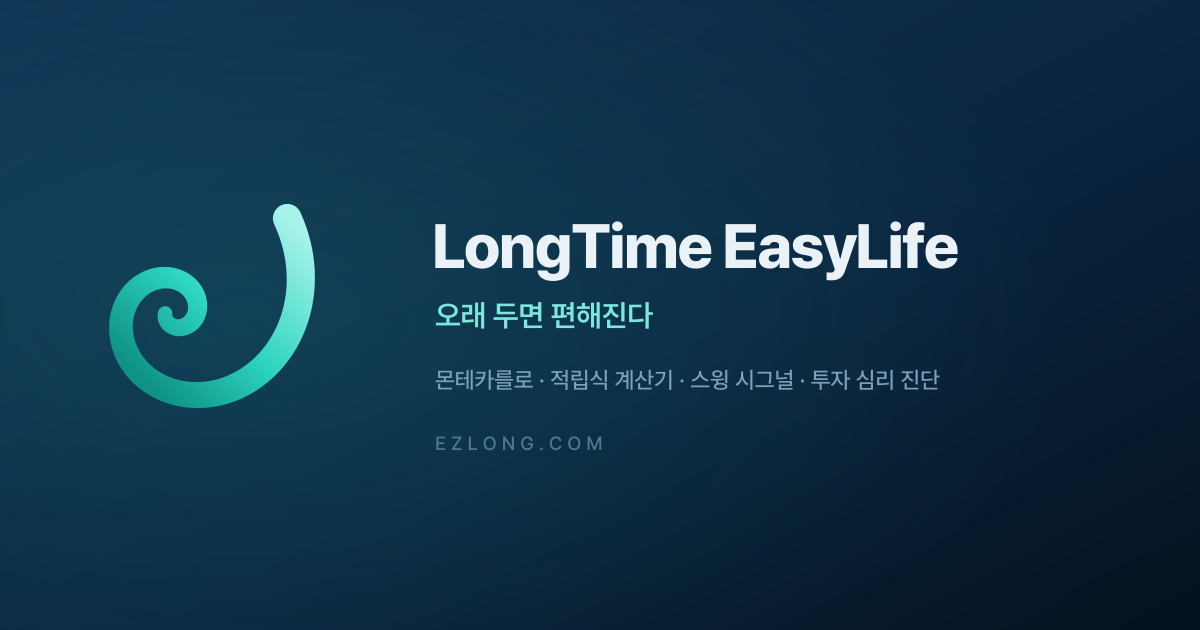
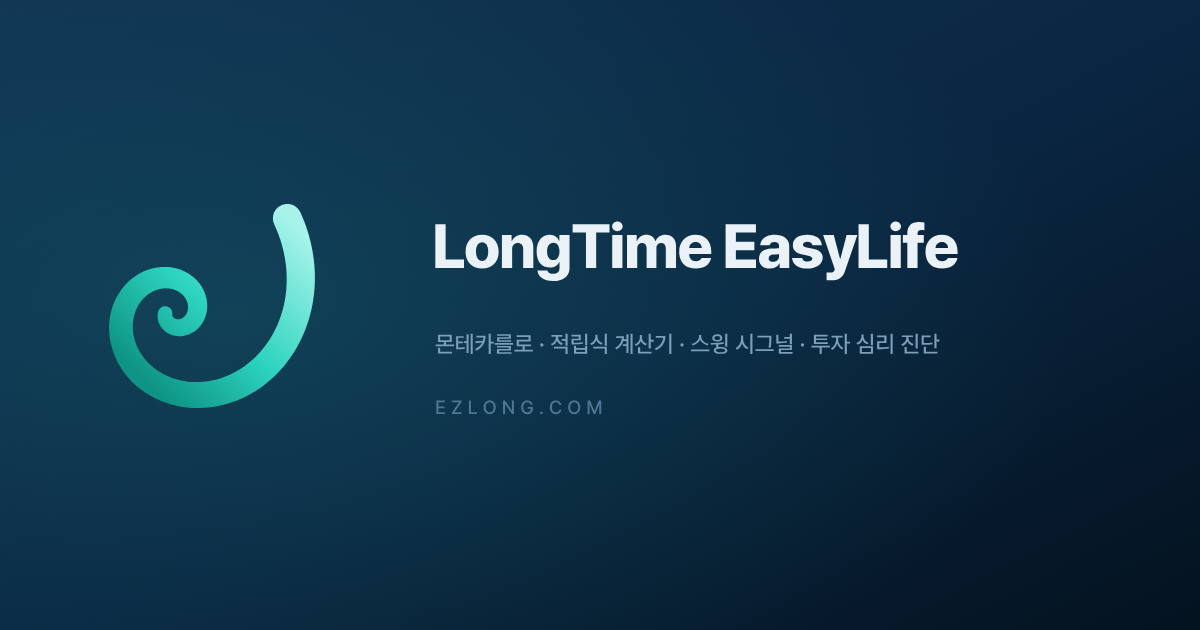
brand: 금지 문구 제거 + 로고 가독성 보정
1) "오래 두면 편해진다" 전면 제거
- 공유카드(og-1200x630) 에 이 문구가 이미지로 박혀 있었다. 원본 SVG 에서
  해당 텍스트 패스를 걷어내고 아래 두 줄을 위로 올려 광학 중심을 맞춘 뒤
  1200x630 으로 다시 렌더했다. og/ · logo-preview.png · time/og/ 셋 다 교체
- 편집 가능한 소스를 og/og-1200x630.svg 로 저장소에 남긴다
- time/manifest.webmanifest 설명문에서 해당 문장 삭제
- check-privacy.py 에 금지 문구 검사 추가 → 걸리면 배포 중단.
  .webmanifest 도 검사 대상에 포함. 위반 삽입 후 종료코드 1 확인
  주의: 이 검사는 텍스트만 본다. 이미지 안의 글자는 못 잡는다

2) 로고 크기 — PC 에서 작고, 서브라인이 안 보이던 문제
- 서브라인 'ezlong.com' 이 워드마크의 35% 라 24px 헤더에서 3px대가 됐다.
  락업 SVG 에서 서브라인 패스만 1.5배로 키워 53% 로 올리고, 회색을 한 단계
  진하게(#7A8798→#4A5A6B, #BFCBD4→#D8E3EC) 조정
- 헤더 로고 높이 24 → 28px(모바일) / 38px(768px 이상)
- index.html 자체 네비 32 → 40px, 인라인 푸터 24 → 32px
- 푸터 로고 20 → 30px
- 라이트·다크 공통 bbox 로 잘라 모드 전환 시 위치 불변

검증: 헤드리스 크로미움으로 모바일·데스크톱 라이트/다크 헤더 렌더 확인,
아이콘 리소스 404 0건, 서브라인/워드마크 비율 53% 실측.

Changed region(s): [[0.3392, 0.4825, 0.8017, 0.6635], [0.37, 0.6937, 0.4933, 0.7238]]

diff --git a/ez-design.css b/ez-design.css
@@ -160,7 +160,13 @@ a { color: inherit; }
   display: flex; flex-direction: column; align-items: flex-start;
 }
 .ez-nav-logo { display: flex; align-items: center; text-decoration: none; padding: 2px 0 10px; }
-.ez-nav-logo img { height: 24px; width: auto; display: block; }
+/* 로고 높이 — 2026-08-06 상향. 새 락업은 워드마크 아래에 ezlong.com 서브라인이
+   붙은 2단 구성이라, 옛 워드마크 단독 로고와 같은 24px 로 두면 서브라인이 3px대가
+   되어 읽히지 않는다. PC 에서는 헤더 여백이 넉넉하니 더 키운다. */
+.ez-nav-logo img { height: 28px; width: auto; display: block; }
+@media (min-width: 768px) {
+  .ez-nav-logo img { height: 38px; }
+}
 .ez-nav-svc-links {
   display: flex; align-items: center; gap: 2px;
   overflow-x: auto; -webkit-overflow-scrolling: touch;
@@ -301,7 +307,7 @@ a { color: inherit; }
   .ez-footer-top { flex-direction: row; align-items: flex-start; justify-content: space-between; flex-wrap: wrap; gap: 32px; }
 }
 .ez-footer-brand { display: flex; flex-direction: column; gap: 8px; flex-shrink: 0; }
-.ez-footer-brand img { height: 20px; width: auto; display: block; }
+.ez-footer-brand img { height: 30px; width: auto; display: block; }
 .ez-footer-brand-desc { font-size: 14px; line-height: 1.65; color: #3C3C3E; }
 @media (prefers-color-scheme: dark) { .ez-footer-brand-desc { color: #F5F5F7; } }
 .ez-footer-books { display: flex; gap: 20px; flex-wrap: wrap; }

diff --git a/index.html b/index.html
@@ -504,7 +504,7 @@ a { text-decoration: none; color: inherit; }
 }
 
 .nav-logo-img {
-  height: 32px;
+  height: 40px;
   width: auto;
   display: block;
 }
@@ -1945,7 +1945,7 @@ a { text-decoration: none; color: inherit; }
         <div class="footer-brand-name">
           <picture>
             <source srcset="logo-darkmode.png" media="(prefers-color-scheme: dark)" />
-            <img src="logo.png" alt="EZLONG" style="height:24px;width:auto;" />
+            <img src="logo.png" alt="EZLONG" style="height:32px;width:auto;" />
           </picture>
         </div>
         <p class="footer-brand-desc">

diff --git a/scripts/check-privacy.py b/scripts/check-privacy.py
@@ -40,7 +40,14 @@ INTERNAL = re.compile(
     r'아직\s*확인\s*(못|안)\s*'
 )
 
-SERVED_EXT = ('.html', '.js', '.css', '.json')
+# 쓰지 않기로 한 문구. 브랜드 패키지 기본 카피에 들어 있어서, 새 에셋을
+# 받을 때마다 다시 딸려 들어오기 쉽다 — 배포 전에 기계로 막는다.
+# 2026-08-06 사고: 공유카드 이미지와 time/manifest 설명에 들어간 채 배포됐다.
+# 주의 — 이 검사는 텍스트만 본다. **이미지 안의 글자는 못 잡는다.**
+# 공유카드·스플래시를 새로 받으면 눈으로 한 번 확인할 것.
+BANNED_COPY = re.compile(r'오래\s*두면\s*편해진다')
+
+SERVED_EXT = ('.html', '.js', '.css', '.json', '.webmanifest')
 SKIP_DIRS = {'.git', 'node_modules', 'mobile', 'analyst-pipeline'}
 
 # 생성 카피(파이프라인 산출물) — 독자가 읽는 문장이 그대로 들어 있다
@@ -102,7 +109,7 @@ def strip_html(s):
 
 def main():
     root = os.path.dirname(os.path.dirname(os.path.abspath(__file__)))
-    rendered, commented = [], []
+    rendered, commented, banned_copy = [], [], []
 
     for cur, dirs, files in os.walk(root):
         dirs[:] = [d for d in dirs
@@ -116,6 +123,9 @@ def main():
                 src = open(p, encoding='utf-8').read()
             except (OSError, UnicodeDecodeError):
                 continue
+            for i, line in enumerate(src.split('\n'), 1):
+                if BANNED_COPY.search(line):
+                    banned_copy.append((rel, i, line.strip()[:160]))
             if not BANNED.search(src):
                 continue
             if f.endswith('.html'):
@@ -173,6 +183,12 @@ def main():
             print('  %s  …%s…' % (rel, txt))
         print()
 
+    if banned_copy:
+        print('[차단] 쓰지 않기로 한 문구 %d건:' % len(banned_copy))
+        for rel, i, txt in banned_copy:
+            print('  %s:%d  %s' % (rel, i, txt))
+        print()
+
     if rendered:
         print('[차단] 렌더되는 문자열에 개인 지칭 %d건:' % len(rendered))
         for rel, i, txt in rendered:
@@ -180,7 +196,10 @@ def main():
         print('\n화면 문구에서 개인 호칭·지시 출처 표기를 제거한 뒤 다시 배포하세요.')
         return 1
 
-    print('[통과] 렌더되는 문자열에 개인 지칭 없음.')
+    if banned_copy:
+        return 1
+
+    print('[통과] 렌더되는 문자열에 개인 지칭·금지 문구 없음.')
     return 0
 
 
